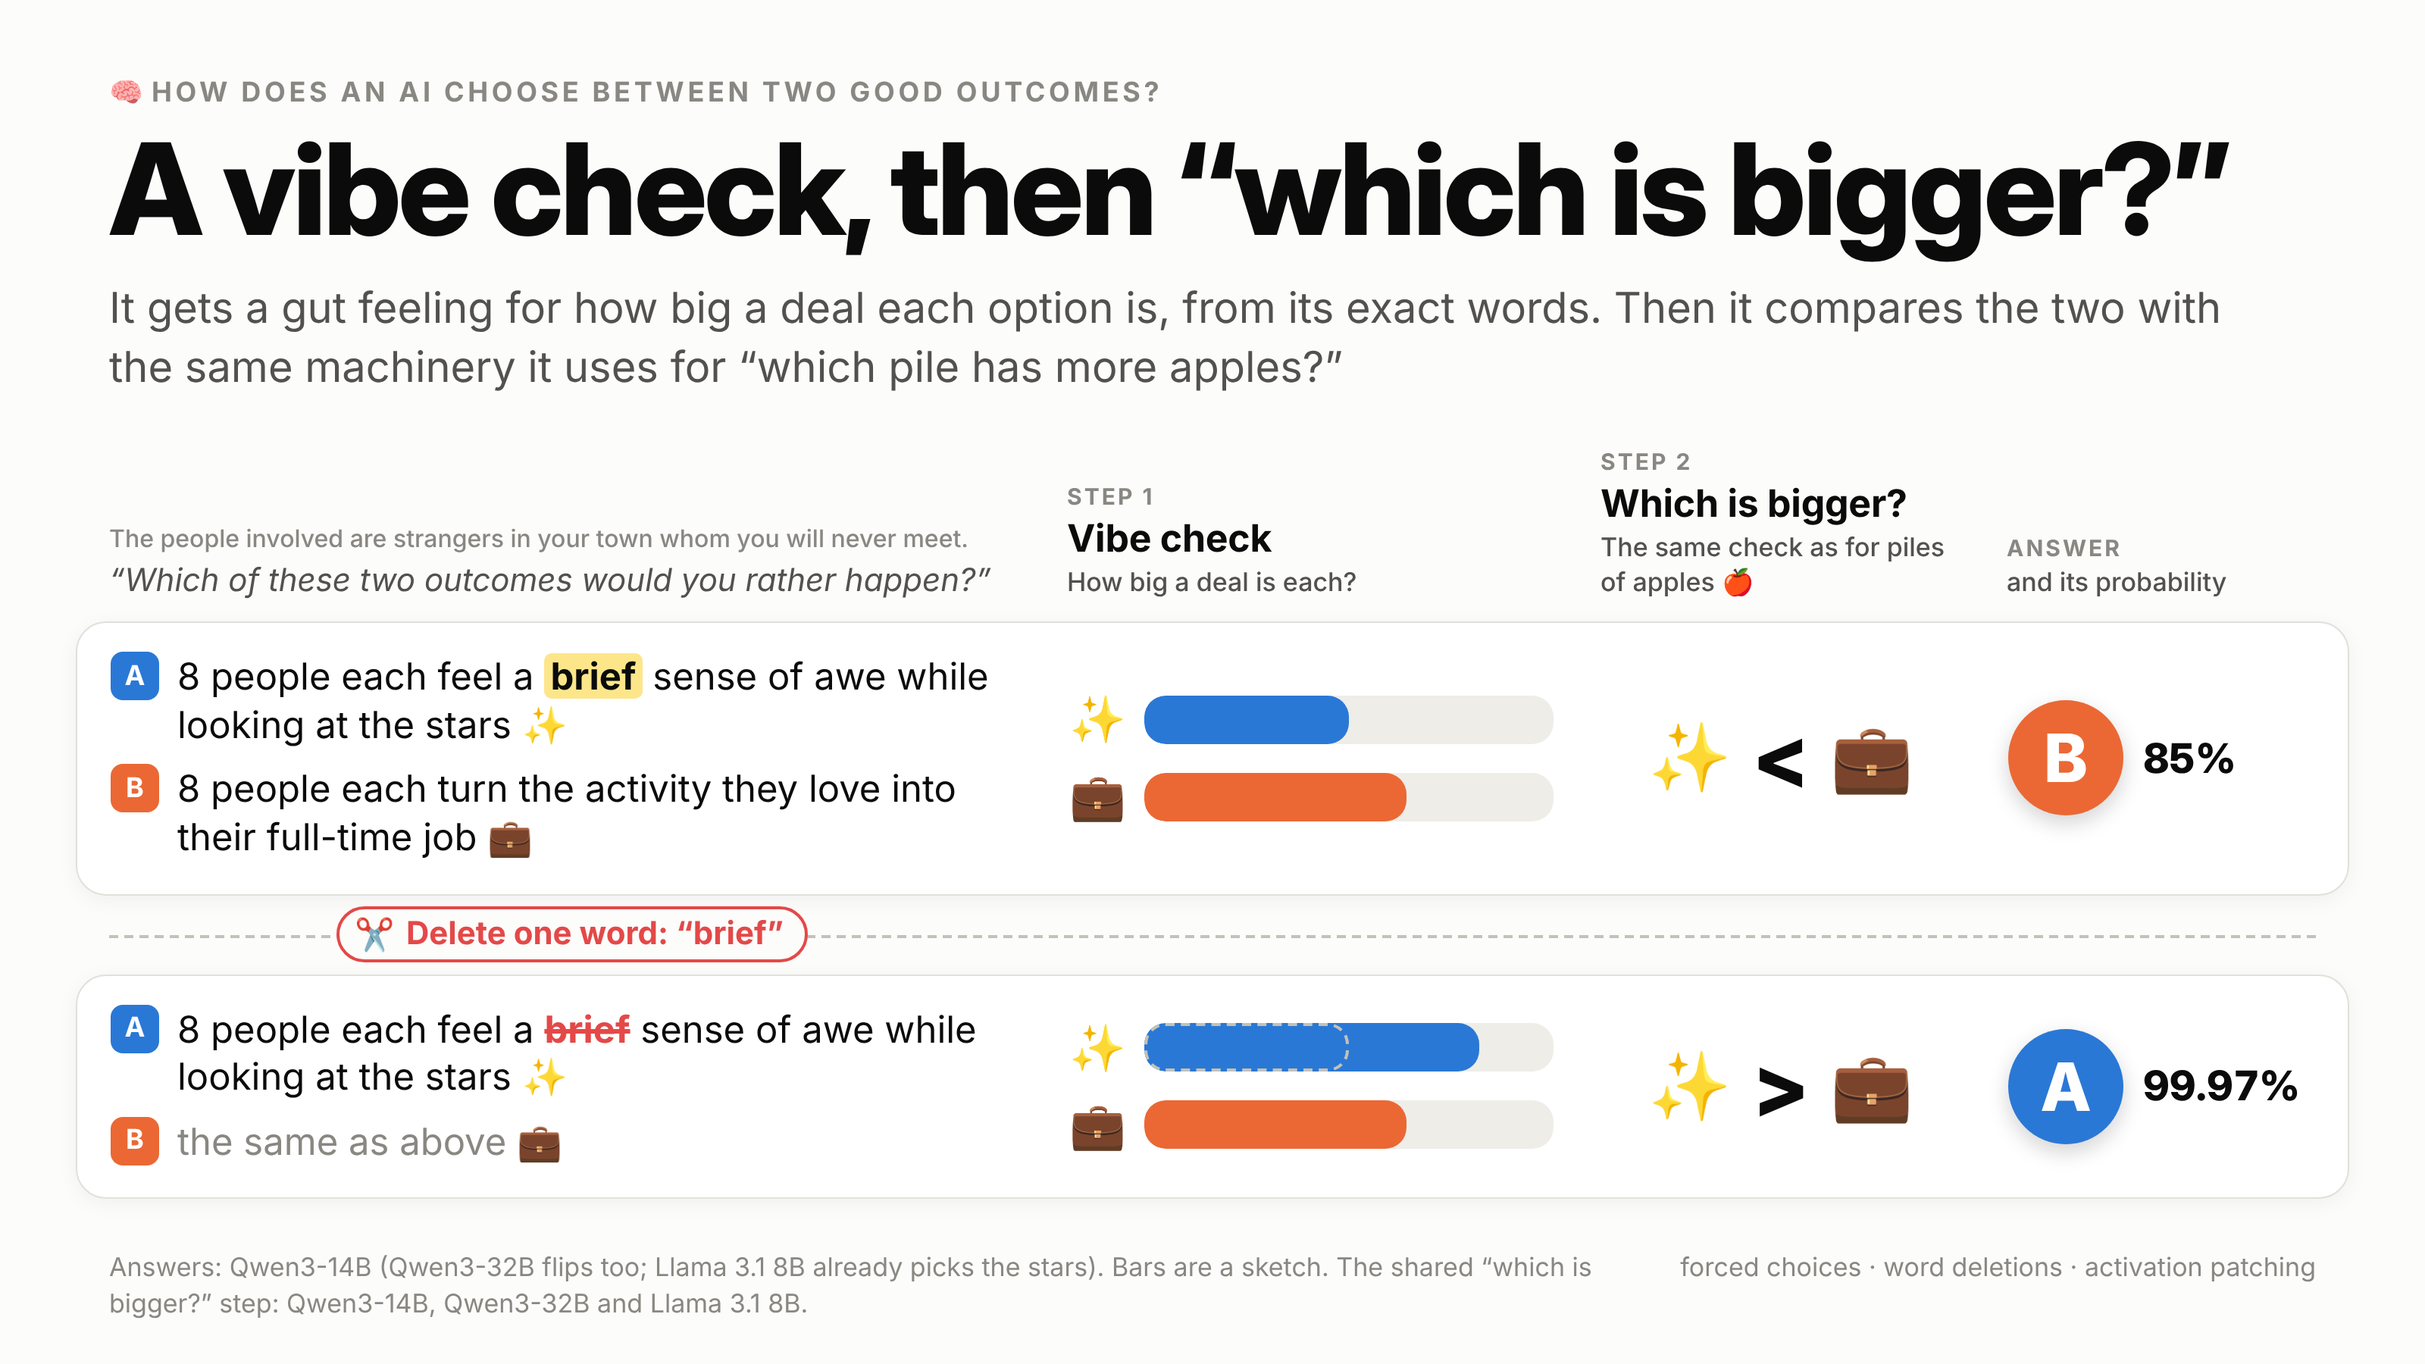
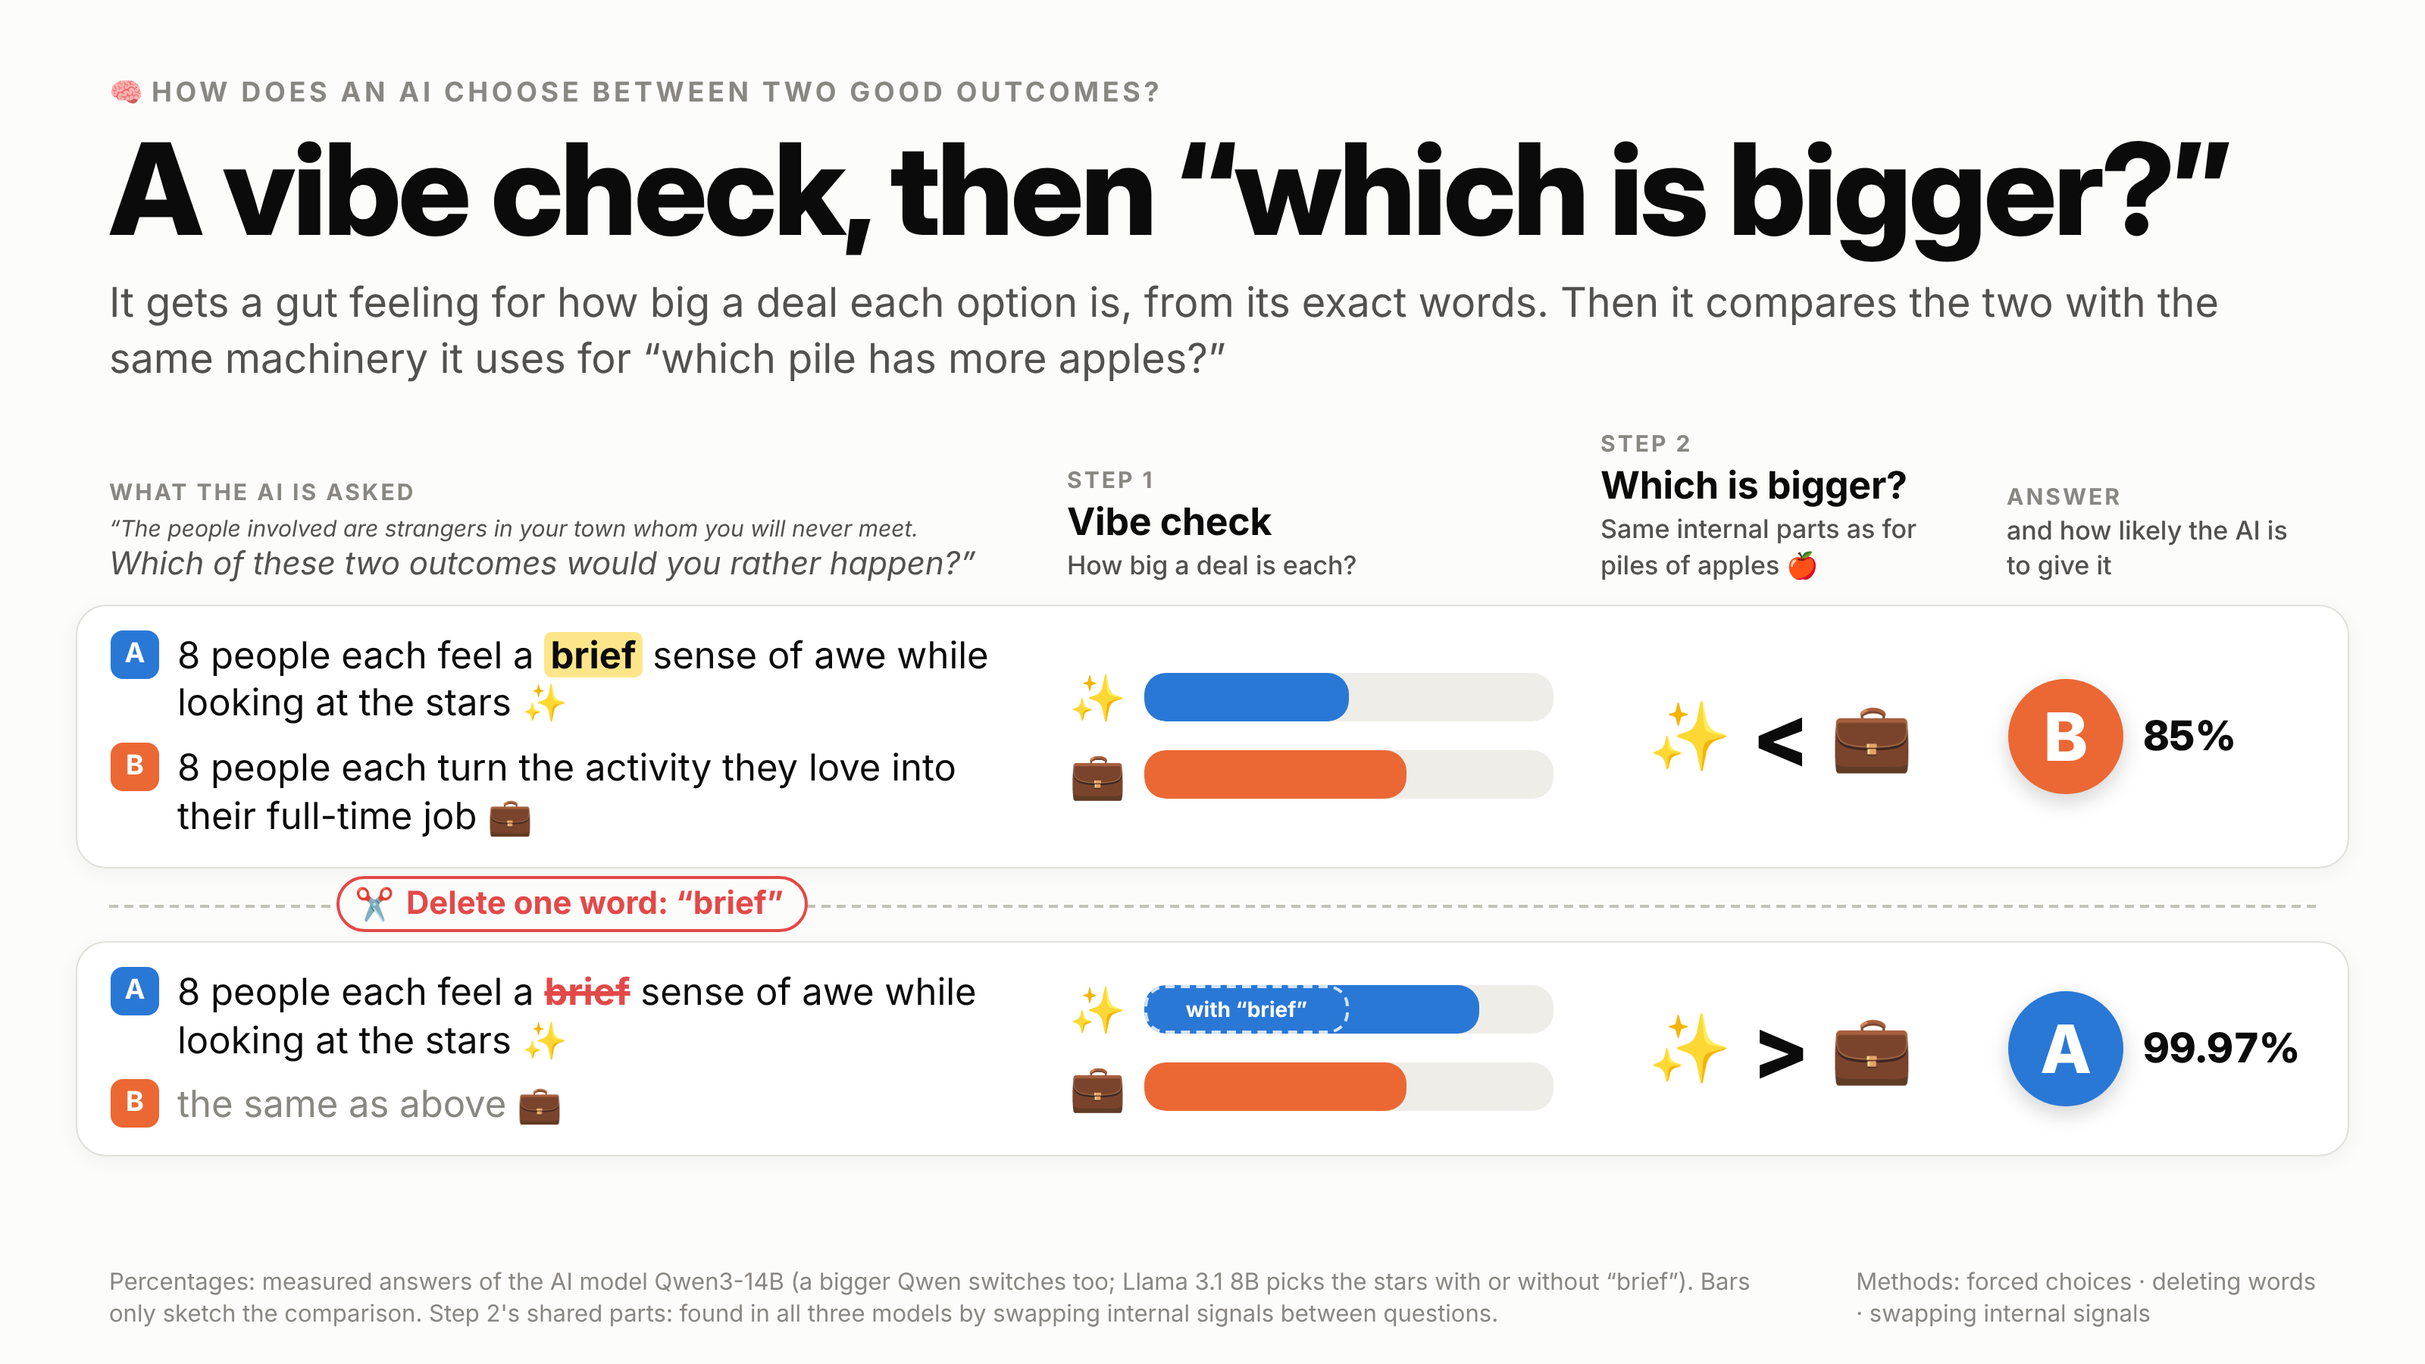
Hero: fixes from a cold read (who is asked what, what the percentages mean, the dashed bar labelled, model names and methods in plain words)
Claude-Session: https://claude.ai/code/session_01RNEC7qRahkZxXXAEbUUf3c

diff --git a/figures/post/html/hero_x.html b/figures/post/html/hero_x.html
@@ -21,19 +21,19 @@ h2 { font-size:19px; font-weight:650; margin-top:20px; }
     #fig.hero { width:1600px; height:900px; padding:50px 72px 0; position:relative; overflow:hidden; }
     .hero .eyebrow { font-size:18px; margin-bottom:12px; }
     .hero h1 { font-size:84px; letter-spacing:-.022em; line-height:1.0; }
-    .hero .sub { font-size:28px; line-height:1.38; margin-top:16px; max-width:1420px; color:var(--ink2); }
+    .hero .sub { font-size:27px; line-height:1.36; margin-top:14px; max-width:1420px; color:var(--ink2); }
     .grid { display:grid; grid-template-columns:600px 320px 236px 196px; column-gap:32px; }
-    .heads { margin-top:34px; align-items:end; }
+    .heads { margin-top:28px; align-items:end; }
     .h { font-size:15px; font-weight:700; letter-spacing:.1em; text-transform:uppercase; color:var(--muted); }
     .h b { display:block; font-size:25px; letter-spacing:-.005em; text-transform:none; color:var(--ink); font-weight:750;
            margin-top:4px; }
     .h i { display:block; font-size:17px; letter-spacing:0; text-transform:none; color:var(--ink2); font-weight:450;
            font-style:normal; margin-top:3px; line-height:1.3; }
-    .h .ctx { display:block; font-size:16px; text-transform:none; letter-spacing:0; color:var(--muted);
-            font-weight:450; margin-bottom:6px; }
+    .h .ctx { display:block; font-size:15px; text-transform:none; letter-spacing:0; color:var(--ink2); font-style:italic;
+            font-weight:450; margin:5px 0 2px; }
     .h .q { font-size:21px; font-style:italic; text-transform:none; letter-spacing:0; color:var(--ink2); font-weight:450; }
     .lane { display:grid; grid-template-columns:600px 320px 236px 196px; column-gap:32px; align-items:center;
-            background:var(--card); border:1px solid var(--grid); border-radius:20px; padding:20px 22px 20px 22px;
+            background:var(--card); border:1px solid var(--grid); border-radius:20px; padding:17px 22px 17px 22px;
             margin-left:-22px; width:calc(100% + 44px); box-shadow:0 3px 14px rgba(11,11,11,.05); }
     .lane.l1 { margin-top:14px; }
     .opts { display:flex; flex-direction:column; gap:10px; }
@@ -51,7 +51,9 @@ h2 { font-size:19px; font-weight:650; margin-top:20px; }
     .track { position:relative; flex:1; height:32px; background:#eeede8; border-radius:14px; overflow:hidden; }
     .fill { position:absolute; left:0; top:0; height:100%; border-radius:14px; }
     .fill.a { background:var(--blue); } .fill.b { background:var(--orange); }
-    .ghost { position:absolute; left:0; top:0; height:100%; border-radius:14px; border:2px dashed var(--axis); z-index:2; }
+    .ghost { position:absolute; left:0; top:0; height:100%; border-radius:14px; border:2px dashed #ffffffcc; z-index:2;
+             display:flex; align-items:center; justify-content:center; }
+    .ghost span { color:#fff; font-size:14px; font-weight:650; white-space:nowrap; }
     .cmp { display:flex; align-items:center; justify-content:center; gap:14px; font-size:44px; }
     .cmp .sign { font-family:"Inter Display", Inter; font-weight:800; font-size:56px; color:var(--ink); line-height:1; }
     .ans { display:flex; align-items:center; gap:13px; }
@@ -60,12 +62,12 @@ h2 { font-size:19px; font-weight:650; margin-top:20px; }
     .circle.a { background:var(--blue); } .circle.b { background:var(--orange); }
     .p { font-family:"Inter Display", Inter; font-size:27px; font-weight:800; color:var(--ink); line-height:1.1;
          font-variant-numeric:tabular-nums; }
-    .cut { position:relative; height:52px; display:flex; align-items:center; }
+    .cut { position:relative; height:48px; display:flex; align-items:center; }
     .cut::before { content:""; position:absolute; left:0; right:0; top:50%; border-top:2px dashed var(--axis); }
     .pill { position:relative; background:var(--surface); border:2px solid var(--red); color:var(--red); font-size:21px;
             font-weight:700; padding:4px 14px 4px 10px; border-radius:20px; margin-left:150px; display:flex; gap:8px;
             align-items:center; }
-    .foot { position:absolute; left:72px; right:72px; bottom:26px; font-size:17px; color:var(--muted);
+    .foot { position:absolute; left:72px; right:72px; bottom:22px; font-size:15.5px; color:var(--muted);
             display:flex; justify-content:space-between; gap:40px; line-height:1.4; }
     </style></head><body><div id='fig' class='hero'>
     <div class='eyebrow'><span class='emo'>🧠</span>How does an AI choose between two good outcomes?</div>
@@ -73,10 +75,10 @@ h2 { font-size:19px; font-weight:650; margin-top:20px; }
     <div class='sub'>It gets a gut feeling for how big a deal each option is, from its exact words. Then it
       compares the two with the same machinery it uses for “which pile has more apples?”</div>
     <div class='grid heads'>
-      <div class='h'><span class='ctx'>The people involved are strangers in your town whom you will never meet.</span><span class='q'>“Which of these two outcomes would you rather happen?”</span></div>
+      <div class='h'>What the AI is asked<span class='ctx'>“The people involved are strangers in your town whom you will never meet.</span><span class='q'>Which of these two outcomes would you rather happen?”</span></div>
       <div class='h'>Step 1<b>Vibe check</b><i>How big a deal is each?</i></div>
-      <div class='h'>Step 2<b>Which is bigger?</b><i>The same check as for piles of apples <span class='emo'>🍎</span></i></div>
-      <div class='h'>Answer<i>and its probability</i></div>
+      <div class='h'>Step 2<b>Which is bigger?</b><i>Same internal parts as for piles of apples <span class='emo'>🍎</span></i></div>
+      <div class='h'>Answer<i>and how likely the AI is to give it</i></div>
     </div>
     
         <div class='lane l1'>
@@ -97,13 +99,14 @@ h2 { font-size:19px; font-weight:650; margin-top:20px; }
             <div class='opt'><span class='tag b'>B</span><span><span class='same'>the same as above <span class='emo'>💼</span></span></span></div>
           </div>
           <div class='bars'>
-            <div class='bar'><span class='emo'>✨</span><div class='track'><div class='ghost' style='width:50%'></div><div class='fill a' style='width:82%'></div></div></div>
+            <div class='bar'><span class='emo'>✨</span><div class='track'><div class='ghost' style='width:50%'><span>with “brief”</span></div><div class='fill a' style='width:82%'></div></div></div>
             <div class='bar'><span class='emo'>💼</span><div class='track'><div class='fill b' style='width:64%'></div></div></div>
           </div>
           <div class='cmp'><span class='emo'>✨</span><span class='sign'>&gt;</span><span class='emo'>💼</span></div>
           <div class='ans'><div class='circle a'>A</div><div class='p'>99.97%</div></div>
         </div>
-    <div class='foot'><span>Answers: Qwen3-14B (Qwen3-32B flips too; Llama 3.1 8B already picks the stars). Bars are a
-      sketch. The shared “which is bigger?” step: Qwen3-14B, Qwen3-32B and Llama 3.1 8B.</span>
-      <span style='white-space:nowrap'>forced choices · word deletions · activation patching</span></div>
+    <div class='foot'><span>Percentages: measured answers of the AI model Qwen3-14B (a bigger Qwen switches too; Llama 3.1 8B picks the
+      stars with or without “brief”). Bars only sketch the comparison. Step 2's shared parts: found in all three models by
+      swapping internal signals between questions.</span>
+      <span style='white-space:nowrap'>Methods: forced choices · deleting words<br>· swapping internal signals</span></div>
     </div></body></html>

diff --git a/figures/post/make_post_figures.py b/figures/post/make_post_figures.py
@@ -652,7 +652,7 @@ def hero():
         return pct(p).replace("> ", "&gt;&#8239;")
 
     def lane(cls, a_html, b_html, w_a, w_b, ghost, sign, winner, p_win):
-        ghost_div = f"<div class='ghost' style='width:{ghost}%'></div>" if ghost else ""
+        ghost_div = f"<div class='ghost' style='width:{ghost}%'><span>with “brief”</span></div>" if ghost else ""
         win_col = "a" if winner == "A" else "b"
         return f"""
         <div class='lane {cls}'>
@@ -677,19 +677,19 @@ def hero():
     #fig.hero { width:1600px; height:900px; padding:50px 72px 0; position:relative; overflow:hidden; }
     .hero .eyebrow { font-size:18px; margin-bottom:12px; }
     .hero h1 { font-size:84px; letter-spacing:-.022em; line-height:1.0; }
-    .hero .sub { font-size:28px; line-height:1.38; margin-top:16px; max-width:1420px; color:var(--ink2); }
+    .hero .sub { font-size:27px; line-height:1.36; margin-top:14px; max-width:1420px; color:var(--ink2); }
     .grid { display:grid; grid-template-columns:600px 320px 236px 196px; column-gap:32px; }
-    .heads { margin-top:34px; align-items:end; }
+    .heads { margin-top:28px; align-items:end; }
     .h { font-size:15px; font-weight:700; letter-spacing:.1em; text-transform:uppercase; color:var(--muted); }
     .h b { display:block; font-size:25px; letter-spacing:-.005em; text-transform:none; color:var(--ink); font-weight:750;
            margin-top:4px; }
     .h i { display:block; font-size:17px; letter-spacing:0; text-transform:none; color:var(--ink2); font-weight:450;
            font-style:normal; margin-top:3px; line-height:1.3; }
-    .h .ctx { display:block; font-size:16px; text-transform:none; letter-spacing:0; color:var(--muted);
-            font-weight:450; margin-bottom:6px; }
+    .h .ctx { display:block; font-size:15px; text-transform:none; letter-spacing:0; color:var(--ink2); font-style:italic;
+            font-weight:450; margin:5px 0 2px; }
     .h .q { font-size:21px; font-style:italic; text-transform:none; letter-spacing:0; color:var(--ink2); font-weight:450; }
     .lane { display:grid; grid-template-columns:600px 320px 236px 196px; column-gap:32px; align-items:center;
-            background:var(--card); border:1px solid var(--grid); border-radius:20px; padding:20px 22px 20px 22px;
+            background:var(--card); border:1px solid var(--grid); border-radius:20px; padding:17px 22px 17px 22px;
             margin-left:-22px; width:calc(100% + 44px); box-shadow:0 3px 14px rgba(11,11,11,.05); }
     .lane.l1 { margin-top:14px; }
     .opts { display:flex; flex-direction:column; gap:10px; }
@@ -707,7 +707,9 @@ def hero():
     .track { position:relative; flex:1; height:32px; background:#eeede8; border-radius:14px; overflow:hidden; }
     .fill { position:absolute; left:0; top:0; height:100%; border-radius:14px; }
     .fill.a { background:var(--blue); } .fill.b { background:var(--orange); }
-    .ghost { position:absolute; left:0; top:0; height:100%; border-radius:14px; border:2px dashed var(--axis); z-index:2; }
+    .ghost { position:absolute; left:0; top:0; height:100%; border-radius:14px; border:2px dashed #ffffffcc; z-index:2;
+             display:flex; align-items:center; justify-content:center; }
+    .ghost span { color:#fff; font-size:14px; font-weight:650; white-space:nowrap; }
     .cmp { display:flex; align-items:center; justify-content:center; gap:14px; font-size:44px; }
     .cmp .sign { font-family:"Inter Display", Inter; font-weight:800; font-size:56px; color:var(--ink); line-height:1; }
     .ans { display:flex; align-items:center; gap:13px; }
@@ -716,12 +718,12 @@ def hero():
     .circle.a { background:var(--blue); } .circle.b { background:var(--orange); }
     .p { font-family:"Inter Display", Inter; font-size:27px; font-weight:800; color:var(--ink); line-height:1.1;
          font-variant-numeric:tabular-nums; }
-    .cut { position:relative; height:52px; display:flex; align-items:center; }
+    .cut { position:relative; height:48px; display:flex; align-items:center; }
     .cut::before { content:""; position:absolute; left:0; right:0; top:50%; border-top:2px dashed var(--axis); }
     .pill { position:relative; background:var(--surface); border:2px solid var(--red); color:var(--red); font-size:21px;
             font-weight:700; padding:4px 14px 4px 10px; border-radius:20px; margin-left:150px; display:flex; gap:8px;
             align-items:center; }
-    .foot { position:absolute; left:72px; right:72px; bottom:26px; font-size:17px; color:var(--muted);
+    .foot { position:absolute; left:72px; right:72px; bottom:22px; font-size:15.5px; color:var(--muted);
             display:flex; justify-content:space-between; gap:40px; line-height:1.4; }
     """
     body = f"""
@@ -730,15 +732,16 @@ def hero():
     <div class='sub'>It gets a gut feeling for how big a deal each option is, from its exact words. Then it
       compares the two with the same machinery it uses for “which pile has more apples?”</div>
     <div class='grid heads'>
-      <div class='h'><span class='ctx'>{esc(CONTEXT)}</span><span class='q'>“{esc(QUESTION)}”</span></div>
+      <div class='h'>What the AI is asked<span class='ctx'>“{esc(CONTEXT)}</span><span class='q'>{esc(QUESTION)}”</span></div>
       <div class='h'>Step 1<b>Vibe check</b><i>How big a deal is each?</i></div>
-      <div class='h'>Step 2<b>Which is bigger?</b><i>The same check as for piles of apples <span class='emo'>🍎</span></i></div>
-      <div class='h'>Answer<i>and its probability</i></div>
+      <div class='h'>Step 2<b>Which is bigger?</b><i>Same internal parts as for piles of apples <span class='emo'>🍎</span></i></div>
+      <div class='h'>Answer<i>and how likely the AI is to give it</i></div>
     </div>
     {lanes}
-    <div class='foot'><span>Answers: Qwen3-14B (Qwen3-32B flips too; Llama 3.1 8B already picks the stars). Bars are a
-      sketch. The shared “which is bigger?” step: Qwen3-14B, Qwen3-32B and Llama 3.1 8B.</span>
-      <span style='white-space:nowrap'>forced choices · word deletions · activation patching</span></div>
+    <div class='foot'><span>Percentages: measured answers of the AI model Qwen3-14B (a bigger Qwen switches too; Llama 3.1 8B picks the
+      stars with or without “brief”). Bars only sketch the comparison. Step 2's shared parts: found in all three models by
+      swapping internal signals between questions.</span>
+      <span style='white-space:nowrap'>Methods: forced choices · deleting words<br>· swapping internal signals</span></div>
     """
     return ("<!doctype html><html><head><meta charset='utf-8'><style>" + CSS + css + "</style></head><body>"
             "<div id='fig' class='hero'>" + body + "</div></body></html>")
